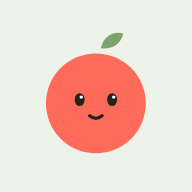
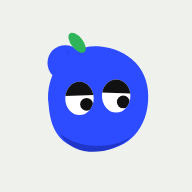
식단 카메라: 코발트 캐릭터 + 얇은/중간 굵기 타이포 믹스
옆눈질하는 블루 캐릭터(초록 잎), 제목·시간은 Pretendard 200과 600을 섞어 배치.
포인트 색을 코발트로 변경. 아이콘 교체, SW 캐시 v4.

Claude-Session: https://claude.ai/code/session_01Y8hQQUrHHJY3p86vzPThsa

Changed region(s): [[0.2188, 0.1562, 0.7812, 0.8125]]

diff --git a/meal-camera/index.html b/meal-camera/index.html
@@ -4,7 +4,7 @@
 <meta charset="utf-8">
 <meta name="viewport" content="width=device-width,initial-scale=1,viewport-fit=cover">
 <title>식단 카메라</title>
-<meta name="theme-color" content="#EEF3EA" media="(prefers-color-scheme: light)">
+<meta name="theme-color" content="#EEF1EC" media="(prefers-color-scheme: light)">
 <meta name="theme-color" content="#141815" media="(prefers-color-scheme: dark)">
 <link rel="manifest" href="manifest.webmanifest">
 <link rel="icon" href="icon-192.png">
@@ -17,62 +17,66 @@
    COLOUR sage #EEF3EA ground, white cards, ink #1F2420, coral #FF6B5B accent, dark sage buttons
    TYPE Pretendard only (800 / 600 / 400)
    LAYOUT phone: blob + question, photo card, buttons, settings; wide: left column intro + settings, right photo */
-:root{--bg:#EEF3EA;--card:#FFFFFF;--ink:#1F2420;--sub:#6B746A;--line:#DCE5D6;--chip:#E2EBDD;--btn:#4E5A4C;--btnInk:#FFFFFF;--coral:#FF6B5B;--halo:#DCE8D5}
-@media(prefers-color-scheme:dark){:root{--bg:#141815;--card:#1D221E;--ink:#EEF2EC;--sub:#9AA597;--line:#2C332D;--chip:#262D27;--btn:#DDE6D8;--btnInk:#1A1F1B;--halo:#232B24}}
+:root{--bg:#EEF1EC;--card:#FFFFFF;--ink:#1F2420;--sub:#6B746A;--line:#DCE5D6;--chip:#E2EBDD;--btn:#4E5A4C;--btnInk:#FFFFFF;--accent:#2D4BFF;--green:#2FB45A}
+@media(prefers-color-scheme:dark){:root{--bg:#141815;--card:#1D221E;--ink:#EEF2EC;--sub:#9AA597;--line:#2C332D;--chip:#262D27;--btn:#DDE6D8;--btnInk:#1A1F1B;--accent:#6E86FF}}
 *{box-sizing:border-box;min-width:0}
 [hidden]{display:none!important}
 html,body{margin:0}
 body{background:var(--bg);color:var(--ink);font:400 16px/1.5 Pretendard,-apple-system,system-ui,"Noto Sans KR",sans-serif;-webkit-font-smoothing:antialiased;overflow-x:clip;-webkit-tap-highlight-color:transparent}
 .page{max-width:1040px;margin:0 auto;padding-top:calc(env(safe-area-inset-top,0px) + 28px);padding-bottom:calc(env(safe-area-inset-bottom,0px) + 32px);padding-left:max(5vw,20px,env(safe-area-inset-left,0px));padding-right:max(5vw,20px,env(safe-area-inset-right,0px));display:grid;gap:20px;grid-template-areas:"intro" "pick" "prev" "box"}
-.intro{grid-area:intro;text-align:center;display:grid;justify-items:center;gap:6px}
-.blob{width:104px;height:104px;cursor:pointer}
+.intro{grid-area:intro;display:grid;grid-template-columns:minmax(0,1fr) auto;align-items:end;gap:12px;padding-top:8px}
+.date{margin:0 0 12px;font-weight:500;font-size:13px;color:var(--sub);letter-spacing:-.01em}
+.date b{font-weight:200;font-size:13px;color:var(--sub);margin:0 6px}
+.blob{width:118px;height:118px;cursor:pointer;margin-right:-6px}
 .blob svg{width:100%;height:100%;display:block}
 .blob.hop svg{animation:hop .45s cubic-bezier(.3,1.5,.5,1)}
 @keyframes hop{0%{transform:translateY(8px) scale(.94)}100%{transform:none}}
 @media(prefers-reduced-motion:reduce){.blob.hop svg{animation:none}}
-h1{margin:8px 0 0;font-weight:800;font-size:26px;line-height:1.25;letter-spacing:-.02em}
-.intro p{margin:0;color:var(--sub);font-size:15px}
+h1{margin:0;font-size:clamp(30px,8.8vw,42px);line-height:1.16;letter-spacing:-.035em}
+h1 .l{display:block;font-weight:200}
+h1 .b{display:block;font-weight:600}
 .prev{grid-area:prev}
 .stage{background:var(--card);border-radius:20px;padding:8px;position:relative;box-shadow:0 1px 0 var(--line)}
 .stage img{display:block;width:100%;height:auto;max-height:66svh;object-fit:contain;border-radius:14px}
 .tag{position:absolute;top:18px;left:18px;background:rgba(31,36,32,.72);color:#fff;font-weight:600;font-size:12px;padding:3px 10px;border-radius:99px}
 .acts{display:grid;grid-template-columns:minmax(0,1fr) auto;gap:8px;margin-top:10px}
-.btn{display:flex;align-items:center;justify-content:center;gap:6px;min-height:54px;border-radius:14px;font:600 16px Pretendard,system-ui,sans-serif;text-decoration:none;cursor:pointer;border:0;padding:0 20px;color:var(--ink);background:var(--card)}
+.btn{display:flex;align-items:center;justify-content:center;gap:6px;min-height:54px;border-radius:14px;font:500 16px Pretendard,system-ui,sans-serif;text-decoration:none;cursor:pointer;border:0;padding:0 20px;color:var(--ink);background:var(--card)}
 .btn.main{background:var(--btn);color:var(--btnInk)}
 .btn:active{opacity:.85}
 .btn[aria-disabled=true]{opacity:.4;pointer-events:none}
-.hint{font-size:13px;color:var(--sub);margin:10px 2px 0;text-align:center}
+.hint{font-size:13px;font-weight:300;color:var(--sub);margin:10px 2px 0;text-align:center}
 .thumbs{display:flex;gap:8px;overflow-x:auto;margin-top:12px;padding-bottom:4px}
 .thumbs button{flex:0 0 auto;width:56px;height:56px;padding:0;border-radius:12px;border:2px solid transparent;overflow:hidden;background:var(--card);cursor:pointer}
-.thumbs button[aria-current=true]{border-color:var(--coral)}
+.thumbs button[aria-current=true]{border-color:var(--accent)}
 .thumbs img{width:100%;height:100%;object-fit:cover;display:block}
 .pick{grid-area:pick;display:grid;gap:8px}
 .pick input{position:absolute;width:1px;height:1px;opacity:0;pointer-events:none}
 .box{grid-area:box;background:var(--card);border-radius:20px;padding:20px;display:grid;gap:20px}
-.lab{display:flex;justify-content:space-between;gap:8px;font-weight:600;font-size:14px;margin-bottom:8px}
-.lab em{font-style:normal;font-weight:400;color:var(--sub);font-size:13px}
+.lab{display:flex;justify-content:space-between;align-items:baseline;gap:8px;font-weight:500;font-size:14px;margin-bottom:10px}
+.lab em{font-style:normal;font-weight:300;color:var(--sub);font-size:13px}
 .chips{display:grid;grid-template-columns:repeat(5,minmax(0,1fr));gap:6px}
-.chips button{min-height:44px;border-radius:12px;border:0;background:var(--chip);color:var(--sub);font:600 15px Pretendard,system-ui,sans-serif;cursor:pointer;padding:0}
-.chips button[aria-pressed=true]{background:var(--coral);color:#fff}
-input[type=datetime-local],input[type=text]{width:100%;min-height:48px;font:400 16px Pretendard,system-ui,sans-serif;color:var(--ink);background:var(--bg);border:1px solid var(--line);border-radius:12px;padding:0 14px}
-input:focus-visible,button:focus-visible,.btn:focus-visible,.pick label:focus-within{outline:2px solid var(--coral);outline-offset:2px}
+.chips button{min-height:44px;border-radius:12px;border:0;background:var(--chip);color:var(--sub);font:300 15px Pretendard,system-ui,sans-serif;cursor:pointer;padding:0}
+.chips button[aria-pressed=true]{background:var(--accent);color:#fff;font-weight:600}
+input[type=datetime-local],input[type=text]{width:100%;min-height:48px;font:300 16px Pretendard,system-ui,sans-serif;color:var(--ink);background:var(--bg);border:1px solid var(--line);border-radius:12px;padding:0 14px}
+input:focus-visible,button:focus-visible,.btn:focus-visible,.pick label:focus-within{outline:2px solid var(--accent);outline-offset:2px}
 .row{display:grid;grid-template-columns:1fr 1fr;gap:8px}
-.ghost{min-height:44px;border-radius:12px;border:1px solid var(--line);background:transparent;color:var(--sub);font:500 14px Pretendard,system-ui,sans-serif;cursor:pointer}
+.ghost{min-height:44px;border-radius:12px;border:1px solid var(--line);background:transparent;color:var(--sub);font:300 14px Pretendard,system-ui,sans-serif;cursor:pointer}
 .err{background:#FFE9E6;color:#B3261E;border-radius:12px;padding:10px 12px;font-size:14px}
 @media(min-width:760px){
   .page{grid-template-columns:minmax(0,.9fr) minmax(0,1.1fr);grid-template-areas:"intro prev" "pick prev" "box prev";align-items:start;column-gap:32px;padding-top:48px}
-  .intro{text-align:left;justify-items:start}
   .prev{position:sticky;top:24px}
-  h1{font-size:30px}
+  h1{font-size:44px}
 }
 </style>
 </head>
 <body>
 <div class="page">
   <section class="intro">
+    <div class="itext">
+      <p class="date" id="today"></p>
+      <h1><span class="l">오늘 <span id="hlMeal">점심</span>,</span><span class="b">뭐 먹었어요?</span></h1>
+    </div>
     <div class="blob" id="blob" role="img" aria-label="캐릭터"></div>
-    <h1 id="hl">오늘 점심, 뭐 먹었어요?</h1>
-    <p id="today"></p>
   </section>
 
   <section class="prev">
@@ -105,40 +109,47 @@ input:focus-visible,button:focus-visible,.btn:focus-visible,.pick label:focus-wi
 <script>
 {
 const MEALS=['아침','점심','간식','저녁','야식'],DAYS=['일','월','화','수','목','금','토'];
-const CORAL='#FF6B5B',INK='#1F2420';
+const INK='#1F2420';
 const $=id=>document.getElementById(id);
 const out=$('out'),thumbs=$('thumbs'),memo=$('memo'),when=$('when'),err=$('err'),blob=$('blob');
 let items=[],cur=0,outURL=null,outBlob=null,mood='';
 
-/* one coral blob, 120x120; mood changes only the eyes */
+/* cobalt bean, 120x120: flat body, half-lidded eyes, green accent; mood moves the lids */
+const BLUE='#2D4BFF',GREEN='#2FB45A';
+const LIDS={cool:[[-2,-3],[-3,-2]],sleep:[[6,6],[6,6]],happy:[[-17,-17],[-17,-17]]};
 function blobParts(m){
-  const p=[['c',60,60,56,'halo'],['p','M64 22 C66 12 74 8 82 10 C80 18 74 23 64 22Z','#7FA36F'],['c',60,66,40,CORAL]];
-  if(m==='sleep')p.push(['s','M42 64 Q47 69 52 64',INK,3],['s','M68 64 Q73 69 78 64',INK,3]);
-  else if(m==='happy')p.push(['s','M42 66 Q47 60 52 66',INK,3],['s','M68 66 Q73 60 78 66',INK,3]);
-  else p.push(['e',47,63,4,5.2,INK],['e',73,63,4,5.2,INK],['c',48.3,61,1.4,'#fff'],['c',74.3,61,1.4,'#fff']);
-  p.push(['s','M55 76 Q60 80 65 76',INK,2.6]);
-  return p;
+  const L=LIDS[m]||LIDS.cool;
+  return[
+   ['c',34,32,15,BLUE],
+   ['p','M20 68 C16 38 38 16 62 18 C88 20 106 38 104 64 C102 94 80 108 56 106 C32 104 22 92 20 68Z',BLUE],
+   ['p','M30 92 C44 104 74 106 90 94 C80 104 66 108 54 107 C42 106 34 100 30 92Z','#1F36C9'],
+   ['eye',46,62,12,14,L[0],[52,67]],
+   ['eye',77,60,12,14,L[1],[83,65]],
+   ['e',44,15,5,10,GREEN,-38],['p','M38 20 Q37 24 35 26','#1F36C9']
+  ];
 }
-const svgBlob=m=>'<svg viewBox="0 0 120 120" aria-hidden="true">'+blobParts(m).map(p=>{
-  const f=c=>c==='halo'?'var(--halo)':c;
-  if(p[0]==='c')return`<circle cx="${p[1]}" cy="${p[2]}" r="${p[3]}" fill="${f(p[4])}"/>`;
-  if(p[0]==='e')return`<ellipse cx="${p[1]}" cy="${p[2]}" rx="${p[3]}" ry="${p[4]}" fill="${p[5]}"/>`;
+const lidPath=(cx,cy,rx,ry,l)=>`M${cx-rx-2} ${cy-ry-2} H${cx+rx+2} V${cy+l[1]} L${cx-rx-2} ${cy+l[0]} Z`;
+let uid=0;
+const svgBlob=m=>{const id='k'+(uid++);return'<svg viewBox="0 0 120 120" aria-hidden="true">'+blobParts(m).map((p,i)=>{
+  if(p[0]==='c')return`<circle cx="${p[1]}" cy="${p[2]}" r="${p[3]}" fill="${p[4]}"/>`;
+  if(p[0]==='e')return`<ellipse cx="${p[1]}" cy="${p[2]}" rx="${p[3]}" ry="${p[4]}" fill="${p[5]}" transform="rotate(${p[6]||0} ${p[1]} ${p[2]})"/>`;
   if(p[0]==='p')return`<path d="${p[1]}" fill="${p[2]}"/>`;
-  return`<path d="${p[1]}" fill="none" stroke="${p[2]}" stroke-width="${p[3]}" stroke-linecap="round"/>`;
-}).join('')+'</svg>';
+  const [,cx,cy,rx,ry,l,pp]=p;
+  return`<clipPath id="${id}${i}"><ellipse cx="${cx}" cy="${cy}" rx="${rx}" ry="${ry}"/></clipPath><ellipse cx="${cx}" cy="${cy}" rx="${rx}" ry="${ry}" fill="#fff"/><g clip-path="url(#${id}${i})"><circle cx="${pp[0]}" cy="${pp[1]}" r="5.4" fill="#111"/><path d="${lidPath(cx,cy,rx,ry,l)}" fill="#111"/></g>`;
+}).join('')+'</svg>'};
 function drawBlob(x,m,ox,oy,size){
   const s=size/120;x.save();x.translate(ox,oy);x.scale(s,s);
   for(const p of blobParts(m)){
-    if(p[4]==='halo')continue;
     x.beginPath();
     if(p[0]==='c'){x.arc(p[1],p[2],p[3],0,Math.PI*2);x.fillStyle=p[4];x.fill()}
-    else if(p[0]==='e'){x.ellipse(p[1],p[2],p[3],p[4],0,0,Math.PI*2);x.fillStyle=p[5];x.fill()}
+    else if(p[0]==='e'){x.ellipse(p[1],p[2],p[3],p[4],(p[6]||0)*Math.PI/180,0,Math.PI*2);x.fillStyle=p[5];x.fill()}
     else if(p[0]==='p'){x.fillStyle=p[2];x.fill(new Path2D(p[1]))}
-    else{x.strokeStyle=p[2];x.lineWidth=p[3];x.lineCap='round';x.stroke(new Path2D(p[1]))}
+    else{const [,cx,cy,rx,ry,l,pp]=p;x.save();x.ellipse(cx,cy,rx,ry,0,0,Math.PI*2);x.fillStyle='#fff';x.fill();x.clip();
+      x.beginPath();x.arc(pp[0],pp[1],5.4,0,Math.PI*2);x.fillStyle='#111';x.fill();x.fill(new Path2D(lidPath(cx,cy,rx,ry,l)));x.restore()}
   }
   x.restore();
 }
-const moodOf=meal=>meal==='야식'?'sleep':'open';
+const moodOf=meal=>meal==='야식'?'sleep':'cool';
 function setBlob(m){if(m===mood)return;mood=m;blob.innerHTML=svgBlob(m);hop()}
 function hop(){blob.classList.remove('hop');void blob.offsetWidth;blob.classList.add('hop')}
 blob.addEventListener('click',hop);
@@ -149,7 +160,7 @@ const toLocal=d=>`${d.getFullYear()}-${pad(d.getMonth()+1)}-${pad(d.getDate())}T
 const fname=it=>{const d=it.date;return`식단_${d.getFullYear()}${pad(d.getMonth()+1)}${pad(d.getDate())}_${pad(d.getHours())}${pad(d.getMinutes())}_${it.meal}.jpg`};
 
 $('meals').innerHTML=MEALS.map(m=>`<button type="button" data-m="${m}" aria-pressed="false">${m}</button>`).join('');
-{const n=new Date();$('today').textContent=`${n.getMonth()+1}월 ${n.getDate()}일 ${DAYS[n.getDay()]}요일`}
+{const n=new Date();$('today').innerHTML=`${n.getMonth()+1}월 ${n.getDate()}일<b>/</b>${DAYS[n.getDay()]}요일`}
 
 function exifDate(buf){
   try{
@@ -187,7 +198,7 @@ function sampleImg(){
   x.fillStyle='#EFB083';x.beginPath();x.moveTo(600,510);x.quadraticCurveTo(770,430,830,540);x.quadraticCurveTo(720,650,600,510);x.fill();
   const g=['#7FA36F','#93B883','#6A8F5C'];
   for(let i=0;i<26;i++){x.fillStyle=g[i%3];x.beginPath();x.ellipse(520+((i*29)%170),610+((i*41)%90),34,18,i*.7,0,7);x.fill()}
-  x.fillStyle=CORAL;x.beginPath();x.arc(560,640,20,0,7);x.fill();x.beginPath();x.arc(640,660,18,0,7);x.fill();
+  x.fillStyle='#FF6B5B';x.beginPath();x.arc(560,640,20,0,7);x.fill();x.beginPath();x.arc(640,660,18,0,7);x.fill();
   return c;
 }
 
@@ -201,28 +212,23 @@ function draw(it){
   const x=c.getContext('2d');
   x.drawImage(img,0,0,Wd,H);
   x.fillStyle='#FFFFFF';x.fillRect(0,H,Wd,bar);
-  const d=it.date,p=u*5,base=H+u*11.4;
+  const d=it.date,p=u*5,base=H+u*12;
   x.textBaseline='alphabetic';x.fillStyle=INK;
-  x.font=`800 ${u*9}px ${F}`;
+  x.font=`200 ${u*11}px ${F}`;
   const tm=`${pad(d.getHours())}:${pad(d.getMinutes())}`;x.fillText(tm,p,base);
-  const tw=x.measureText(tm).width,dx=p+tw+u*3;
-  x.font=`600 ${u*3.4}px ${F}`;x.fillStyle=INK;
-  x.fillText(`${d.getMonth()+1}월 ${d.getDate()}일 ${DAYS[d.getDay()]}요일`,dx,base-u*4.6);
-  x.font=`400 ${u*3}px ${F}`;x.fillStyle='#6B746A';
-  x.fillText(`${d.getFullYear()}`,dx,base);
-  const bs=u*11;drawBlob(x,moodOf(it.meal),Wd-p-bs+u*.5,H+u*2.6,bs);
-  x.font=`600 ${u*3.4}px ${F}`;
-  const mw=x.measureText(it.meal).width,pw=mw+u*4,ph=u*6,px=Wd-p-bs-u*2-pw,py=base-ph+u*.4;
-  x.fillStyle=CORAL;x.beginPath();x.roundRect(px,py,pw,ph,ph/2);x.fill();
-  x.fillStyle='#fff';x.fillText(it.meal,px+u*2,py+ph*.68);
-  if(memoTxt){x.fillStyle='#4A5249';x.font=`400 ${u*3.6}px ${F}`;x.fillText(memoTxt,p,H+u*18.6,Wd-p*2)}
-  x.fillStyle='#E6ECE2';x.fillRect(0,H,Wd,Math.max(1,u*.25));
+  const tw=x.measureText(tm).width,dx=p+tw+u*3.6;
+  x.fillStyle='#2D4BFF';x.fillRect(dx-u*1.8,base-u*8.2,Math.max(1,u*.25),u*8.2);
+  x.fillStyle=INK;x.font=`600 ${u*4.4}px ${F}`;x.fillText(it.meal,dx,base-u*4.4);
+  x.font=`300 ${u*3.3}px ${F}`;x.fillStyle='#6B746A';
+  x.fillText(`${d.getMonth()+1}월 ${d.getDate()}일 ${DAYS[d.getDay()]}요일`,dx,base);
+  const bs=u*14;drawBlob(x,moodOf(it.meal),Wd-p-bs+u*1.5,H+u*1.4,bs);
+  if(memoTxt){x.fillStyle='#4A5249';x.font=`300 ${u*3.6}px ${F}`;x.fillText(memoTxt,p,H+u*19,Wd-p*2)}
   c.toBlob(b=>{if(!b)return;if(outURL)URL.revokeObjectURL(outURL);outBlob=b;outURL=URL.createObjectURL(b);out.src=outURL;const sv=$('saveBtn');sv.href=outURL;sv.download=fname(it)},'image/jpeg',.9);
 }
 
 function show(){
   const it=items[cur];if(!it)return;
-  $('hl').textContent=`오늘 ${it.meal}, 뭐 먹었어요?`;
+  $('hlMeal').textContent=it.meal;
   setBlob(moodOf(it.meal));
   document.querySelectorAll('#meals button').forEach(b=>b.setAttribute('aria-pressed',b.dataset.m===it.meal));
   when.value=toLocal(it.date);memo.value=it.memo;

diff --git a/meal-camera/sw.js b/meal-camera/sw.js
@@ -1,4 +1,4 @@
-const C='meal-camera-v3';
+const C='meal-camera-v4';
 const FILES=['./','index.html','manifest.webmanifest','icon-192.png','icon-512.png','apple-touch-icon.png'];
 self.addEventListener('install',e=>{e.waitUntil(caches.open(C).then(c=>c.addAll(FILES)));self.skipWaiting()});
 self.addEventListener('activate',e=>{e.waitUntil(caches.keys().then(ks=>Promise.all(ks.filter(k=>k!==C).map(k=>caches.delete(k)))));self.clients.claim()});
